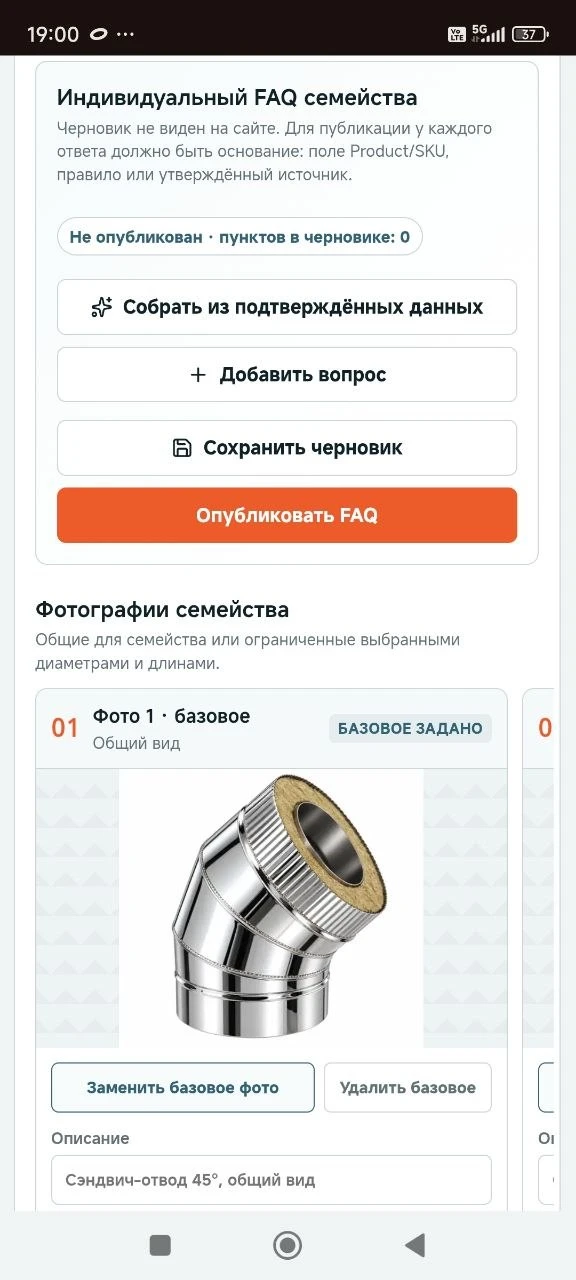
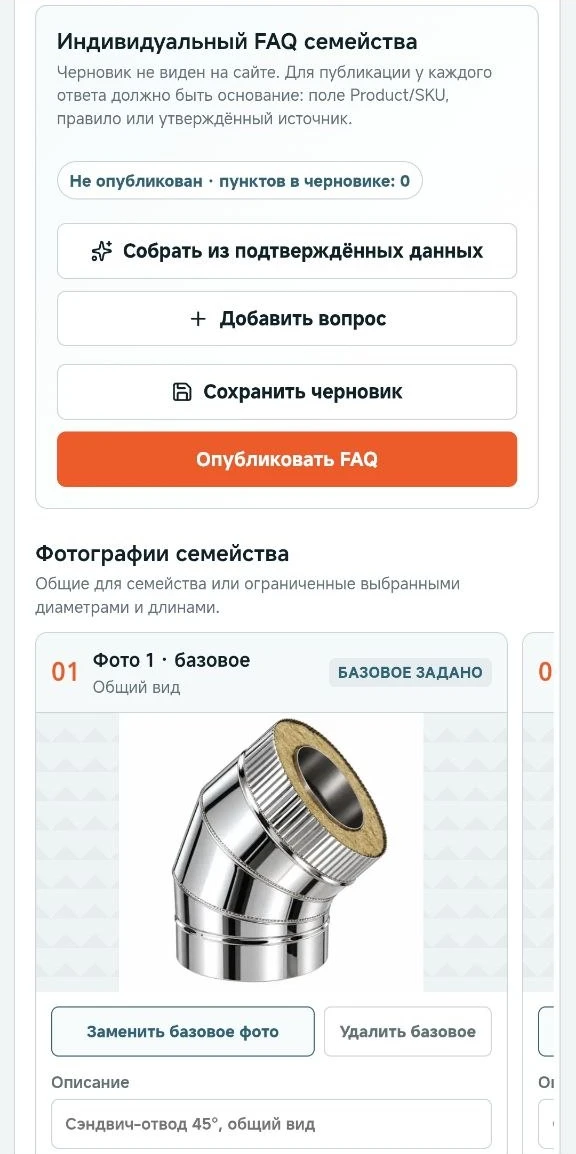
Пользователь отправил в Telegram изображений: 1

diff --git a/lib/case-studies.ts b/lib/case-studies.ts
@@ -73,7 +73,7 @@ const mobileScreen = (
   name: string,
   alt: string,
   caption: string,
-  height = 1280,
+  height = 1154,
 ): CaseImageSource => ({
   src: `${base}/${name}-mobile.webp`,
   width: 576,
@@ -217,7 +217,7 @@ export const caseStudies: Record<string, CaseStudy> = {
             label: "PDF-смета",
             src: `${base}/quote-mobile.webp`,
             width: 576,
-            height: 1280,
+            height: 1154,
             alt: "Реальный PDF на телефоне: позиции, количество и суммы",
             caption:
               "Пример PDF-сметы с перечнем позиций. Стоимость относится к изделиям, не к разработке сайта.",
@@ -247,7 +247,7 @@ export const caseStudies: Record<string, CaseStudy> = {
                 "catalog",
                 "Мобильная админка каталога: категория сэндвич-отводов",
                 "Управление каталогом на телефоне: категория сэндвич-отводов и её обложка.",
-                1280,
+                1070,
               ),
             ),
             label: "Каталог",
@@ -261,7 +261,7 @@ export const caseStudies: Record<string, CaseStudy> = {
               {
                 src: `${base}/catalog-faq-mobile.webp`,
                 width: 576,
-                height: 1280,
+                height: 1154,
                 alt: "Мобильная админка: фотографии семейства изделий и FAQ",
                 caption:
                   "Мобильный редактор: общая фотография семейства и инструменты работы с FAQ.",
@@ -298,7 +298,7 @@ export const caseStudies: Record<string, CaseStudy> = {
               "estimate-editor",
               "Мобильный редактор состава комплекта: добавление из каталога, ручная позиция и количество изделий",
               "Состав комплекта на телефоне: добавление из каталога, ручные позиции и редактирование изделий.",
-              1280,
+              1154,
             ),
           ),
         ],
@@ -327,7 +327,7 @@ export const caseStudies: Record<string, CaseStudy> = {
                 "catalog-seo",
                 "Мобильный SEO-редактор: описание, title, meta description, переменные и предпросмотр",
                 "SEO-редактор на телефоне: описание, метаданные с подстановками параметров и предпросмотр результата.",
-                1280,
+                1070,
               ),
             ),
             label: "SEO-редактор",
@@ -336,7 +336,7 @@ export const caseStudies: Record<string, CaseStudy> = {
             label: "FAQ",
             src: `${base}/catalog-faq-mobile.webp`,
             width: 576,
-            height: 1280,
+            height: 1154,
             alt: "Мобильный редактор FAQ с сохранением черновика и публикацией",
             caption:
               "У FAQ отдельные действия для подготовки, сохранения черновика и публикации.",

diff --git a/components/phone-shell.module.css b/components/phone-shell.module.css
@@ -32,37 +32,15 @@
   background: #edf1ef;
   box-shadow: inset 0 0 0 1px #ffffff14;
 }
-.status {
-  position: absolute;
-  inset: 0 0 auto;
-  height: 5.5%;
-  background: #10272d;
-  color: #e7efef;
-  display: flex;
-  align-items: center;
-  justify-content: end;
-  gap: 4px;
-  padding-inline: 6%;
-}
-.signal {
-  font: 8px/1 sans-serif;
-  letter-spacing: -1px;
-}
-.battery {
-  width: 12px;
-  height: 6px;
-  border: 1px solid currentColor;
-  border-radius: 2px;
-}
 .content {
   position: absolute;
-  inset: 5.5% 0 0;
+  inset: 0;
 }
 .content > img {
   display: block;
   width: 100%;
   height: 100%;
-  object-fit: contain;
+  object-fit: cover;
   object-position: top;
 }
 .notch {

diff --git a/components/case-gallery.tsx b/components/case-gallery.tsx
@@ -282,7 +282,13 @@ export function CaseGallery() {
               <Image
                 src={src(full)}
                 width={full === "desktop" ? 975 : 576}
-                height={full === "desktop" ? 416 : 1280}
+                height={
+                  full === "desktop"
+                    ? 416
+                    : screen.id === "catalog"
+                      ? 1070
+                      : 1154
+                }
                 alt={full === "desktop" ? screen.desktopAlt : screen.mobileAlt}
                 unoptimized
               />

diff --git a/components/phone-shell.tsx b/components/phone-shell.tsx
@@ -46,10 +46,6 @@ export function PhoneShell({
       />
       <div className={`${styles.face} ${styles.front}`}>
         <div className={styles.screen}>
-          <div className={styles.status} aria-hidden="true">
-            <span className={styles.signal}>▂▄▆</span>
-            <span className={styles.battery} />
-          </div>
           <div className={styles.content}>{children}</div>
         </div>
         <div className={styles.notch} aria-hidden="true" />

diff --git a/components/phone-mockup.module.css b/components/phone-mockup.module.css
@@ -45,7 +45,7 @@
   inset: 0;
 }
 .slide img {
-  object-fit: contain;
+  object-fit: cover;
   object-position: top;
   pointer-events: none;
   user-select: none;

diff --git a/docs/CASE_SCREENSHOTS.md b/docs/CASE_SCREENSHOTS.md
@@ -11,7 +11,7 @@
 | PDF-смета | pdf.png             | mobile/pdf_1.jpg           |
 | Каталог   | admin_catalog.png   | mobile/admin_catalog.jpg   |
 
-Файлы отобраны визуально. Мобильные снимки восстановлены целиком из исходников по просьбе владельца: сохранены статус-бар, браузерные панели, если они присутствуют, и нижняя навигация. Полный размер всех мобильных снимков — 576 × 1280. Десктопные файлы сохраняют прежний размер 975 × 416 и обрезку нижней технической полосы. WebP quality 90; интерфейсы не перерисованы.
+Файлы отобраны визуально. В мобильных снимках убраны системная строка состояния, нижняя навигация Android и адресная строка браузера, если она присутствует. Основные кадры — 576 × 1154; каталог и SEO-редактор с браузерной панелью — 576 × 1070. Десктопные файлы сохраняют прежний размер 975 × 416 и обрезку нижней технической полосы. WebP quality 90; интерфейсы не перерисованы.
 
 Не использовать исходники с клиентами, заявками, именами и телефонами в публичных материалах. В частности, `adminka_client.png`, `admin_1.png`, `mobile/clients_admin.jpg`, `mobile/pdf.jpg` и `mobile/pdf_download.jpg` не включены. Перед добавлением любого нового кадра повторно проверить его содержимое.
 
@@ -47,11 +47,11 @@
 
 ## Дополнительные мобильные пары
 
-Владелец передал два недостающих кадра. Они просмотрены целиком: персональных данных клиентов нет. В public сохранены WebP quality 90, без метаданных, с полным исходным кадром 576 × 1280; интерфейс не изменялся.
+Владелец передал два недостающих кадра. Они просмотрены целиком: персональных данных клиентов нет. В public сохранены WebP quality 90, без метаданных. После уточнения владельца системные панели убраны: редактор состава — 576 × 1154, SEO-редактор — 576 × 1070; интерфейс не изменялся.
 
 - `estimate-editor-mobile.webp` ← `.codex-telegram/uploads/374897465/screens-1793050092-b107ca38-01.jpg`: состав комплекта, добавление из каталога, ручные позиции, редактирование и количество. Мобильная пара к `estimate-editor-desktop.webp` в «Клиенты и сметы»; кадр сам по себе не подтверждает создание новой пустой сметы.
 - `catalog-seo-mobile.webp` ← `.codex-telegram/uploads/374897465/screens-1793050093-62910312-02.jpg`: описание, title, meta description, переменные и предпросмотр. Пара к `catalog-seo-desktop.webp` в «SEO и контент».
 
 Исходная папка Telegram остаётся приватной; публикуются только эти проверенные изображения. Десктопные снимки сохранены. Увеличенный просмотр использует соответствующий текущей ширине кадр.
 
-Все мобильные кадры модулей и интерактивной демонстрации теперь полные, без обрезки системных панелей. Шесть первоначальных мобильных WebP повторно получены из исходных файлов таблицы выше, без resize/extract. Размеры в данных кейса и увеличенном просмотре обновлены до 576 × 1280. Последние два мобильных снимка редакторов и кадр FAQ уже имели этот размер и не менялись.
+Все девять мобильных кадров заново получены из оригиналов с единой обработкой: верх 56 px (140 px при наличии адресной строки), низ 70 px. Обрезаны только системные/браузерные панели, исходники сохранены. Прежняя трактовка о сохранении полного кадра отменена уточнением владельца. В корпусе телефона убрана декоративная строка состояния; контент заполняет экран через object-fit: cover, без боковых пустых полос.

diff --git a/docs/DESIGN.md b/docs/DESIGN.md
@@ -22,3 +22,5 @@ The database recommendations mixed dark-only style with a light palette. Resolve
 - Editorial case content: optional data-driven story and photography blocks sit between the cover and existing demonstration. Keep the story to a heading and three short paragraphs; use a compact two-image gallery of actual catalog photographs, without invented before/after imagery. Reuse the existing zoom viewer and Reveal entrance. The cover can have a project-specific subtitle and four short scope labels. Module details stay behind the existing six tabs; engineering supports the business story with short explanations. Keep all new styling scoped to the case page.
 
 - Case cover scope: four restrained Lucide icons (18 px, 1.5 stroke, muted, no badges) accompany the work directions. Mobile uses a two-column grid with 16 px gaps and a cover minimum height of `100svh - 88px` (the mobile header height), so the story begins after the first viewport. Content can grow naturally at narrow widths or enlarged text; no fixed height or clipping. These rules are scoped to case studies.
+
+- Phone screenshots exclude captured OS/browser bars and bottom Android navigation. The shell has no decorative status row; its content spans the full display. Use object-fit: cover for the interactive phone and cover shell image to avoid empty bands. Keep the hardware rim, notch, gestures and floating motion. Do not change page scrolling, site navigation, footer or add fullscreen/PWA behavior for this presentation adjustment.
